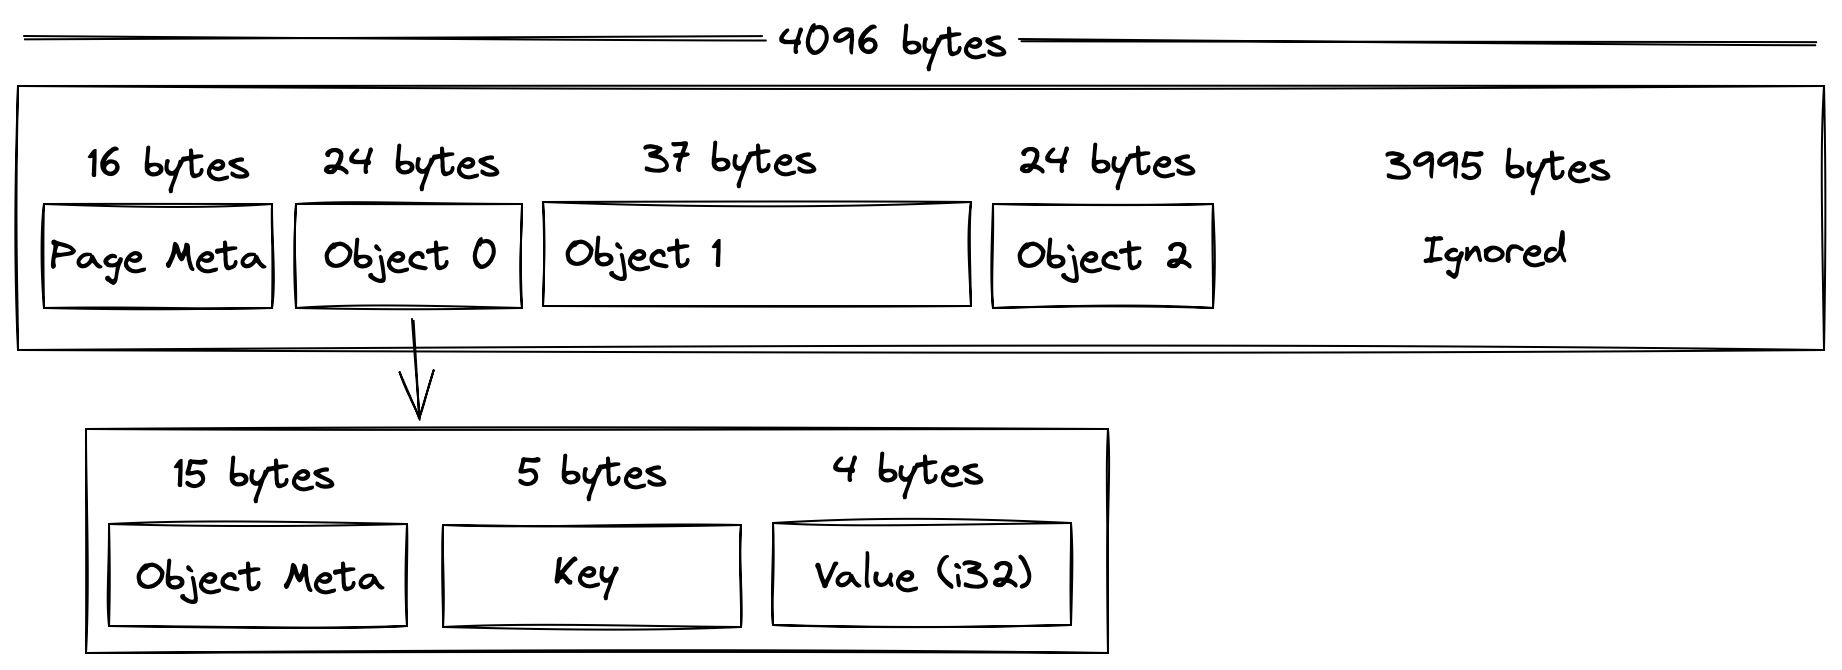
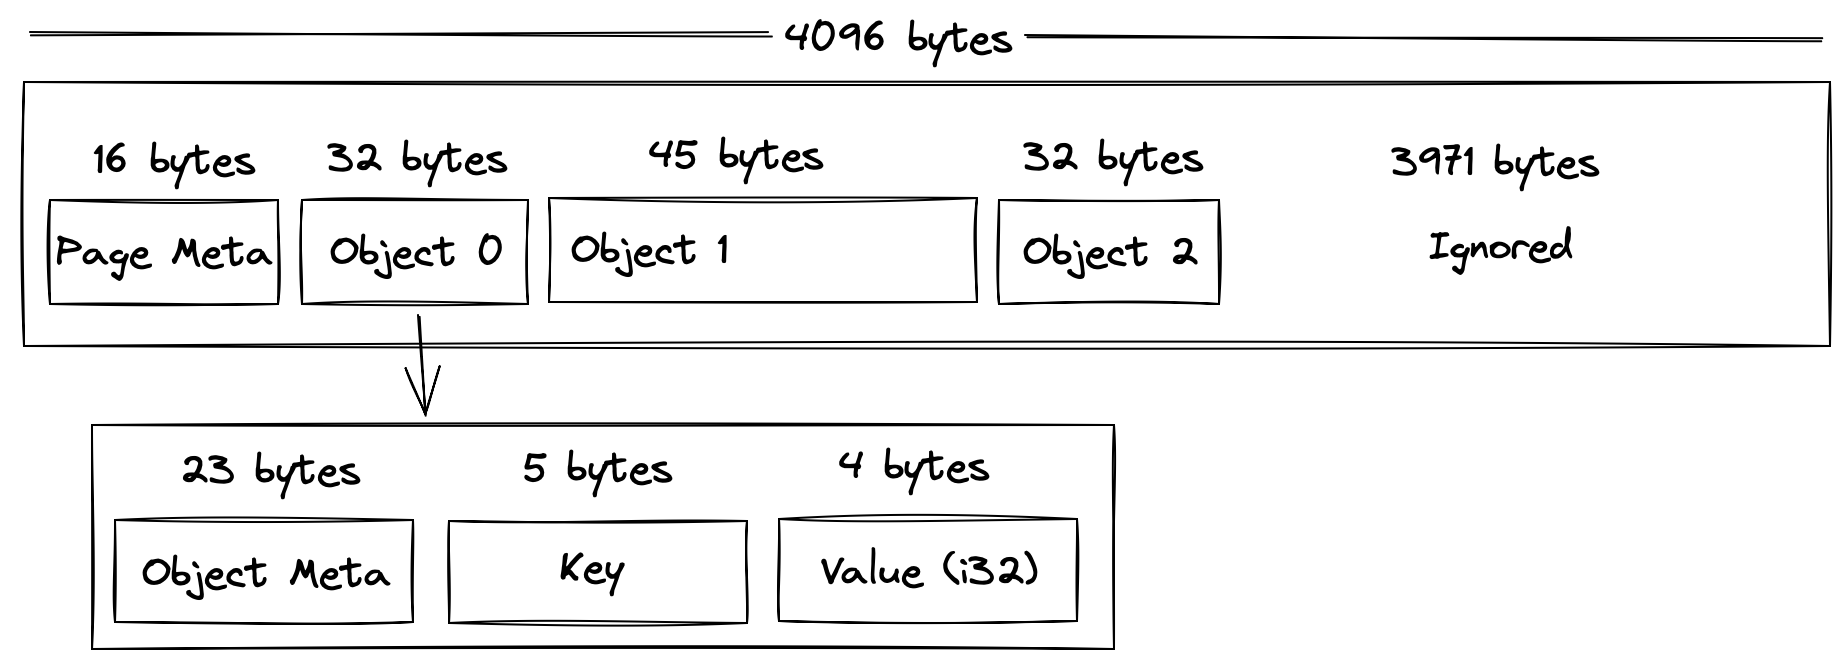
storage: Use 64-bit transaction IDs
Transaction IDs were i32, so a file would eventually run out of them and wrap
around. They're now u64 in the header and in every object, which can't
realistically run out, so wraparound never needs to be handled.

The file format version isn't changed here, it will be bumped once before the
next release.

Fixes #70

diff --git a/docs/file-format.rst b/docs/file-format.rst
@@ -80,23 +80,23 @@ remaining space is reserved (see `Compatibility`_).
 
   * - 24
     - *Transaction ID*
-    - i32 (4 bytes)
+    - u64 (8 bytes)
     - The last transaction ID that was issued.
 
-  * - 28
+  * - 32
     - *Row ID*
     - u64 (8 bytes)
     - The last row ID that was issued. Rows in a table without a ``PRIMARY
       KEY`` are keyed by a row ID. Row IDs are never reused.
 
-  * - 36
+  * - 40
     - *Active Transactions*
-    - 256 x i32 (1024 bytes)
+    - 256 x u64 (2048 bytes)
     - The IDs of the transactions that are in progress. Unused slots are 0.
 
-  * - 1060
+  * - 2088
     - *Reserved*
-    - 3036 bytes
+    - 2008 bytes
     - Zero in this version of the file format. See `Compatibility`_.
 
 Compatibility
@@ -291,7 +291,7 @@ are ignored, so that new types of objects can be added (see
   * - ``V``
     - `Sequence Value Object`_
 
-Every object contains 15 bytes of metadata:
+Every object contains 23 bytes of metadata:
 
 .. list-table::
   :header-rows: 1
@@ -305,11 +305,11 @@ Every object contains 15 bytes of metadata:
     - Is the total length of the object (including the metadata).
 
   * - *TID*
-    - i32 (4 bytes)
+    - u64 (8 bytes)
     - Transaction ID that created this object. [2]_
 
   * - *XID*
-    - i32 (4 bytes)
+    - u64 (8 bytes)
     - Transaction ID that expired this object. [2]_
 
   * - *Ref*
@@ -321,7 +321,7 @@ Every object contains 15 bytes of metadata:
     - The number of bytes in the proceeding *Key*.
 
 Using this metadata we can say that the length of *Value* will be: (*Length* -
-15 - *Key Length*).
+23 - *Key Length*).
 
 Blob Object
 -----------

diff --git a/docs/v-client-library-docs.rst b/docs/v-client-library-docs.rst
@@ -505,10 +505,10 @@ struct PageObject
    	//
    	// TODO(elliotchance): It makes more sense to construct a new PageObject
    	//  when changing the tid and xid.
-   	tid int
+   	tid u64
    	// The xid is the transaciton that deleted the object, or zero if it has
    	// never been deleted.
-   	xid int
+   	xid u64
    }
 
 TODO(elliotchance): This does not need to be public. It was required for a bug at the time with V not being able to pass this to the shuffle function. At some point in the future remove the pub and see if it works.
@@ -569,7 +569,7 @@ struct Schema
 
    pub struct Schema {
    	// The tid is the transaction ID that created this table.
-   	tid int
+   	tid u64
    pub:
    	// The name of the schema is case-sensitive.
    	name string
@@ -586,7 +586,7 @@ struct Sequence
    pub struct Sequence {
    mut:
    	// The tid is the transaction ID that created this table.
-   	tid int
+   	tid u64
    pub mut:
    	// name contains the other parts such as the schema.
    	name Identifier
@@ -636,7 +636,7 @@ struct Table
    pub struct Table {
    mut:
    	// The tid is the transaction ID that created this table.
-   	tid int
+   	tid u64
    pub mut:
    	// The name of the table including the schema.
    	name Identifier

diff --git a/docs/mvcc.rst b/docs/mvcc.rst
@@ -45,8 +45,10 @@ Wraparound Transaction IDs
 --------------------------
 
 Another challange with MVCC is that it requires transactions IDs to increment.
-Eventually vsql will run out of transaction IDs leading to incorrect behavior.
-See https://github.com/elliotchance/vsql/issues/70.
+Some databases use 32-bit transaction IDs, which can run out and have to wrap
+around. vsql uses 64-bit transaction IDs, so even at one million transactions
+per second a database would take more than 500,000 years to run out. Transaction
+IDs never wrap around.
 
 Resources
 ---------

diff --git a/docs/limitations.rst b/docs/limitations.rst
@@ -15,6 +15,9 @@ These have not been tested, but are based on fundamental design choices:
   * - The maximum number of pages in a file
     - 2147483647 (~2.1 billion)
 
+  * - The maximum number of transactions over the life of a file
+    - 18446744073709551613 (~18 quintillion)
+
   * - The maximum file size (using the default page size)
     - 8 PB
 
